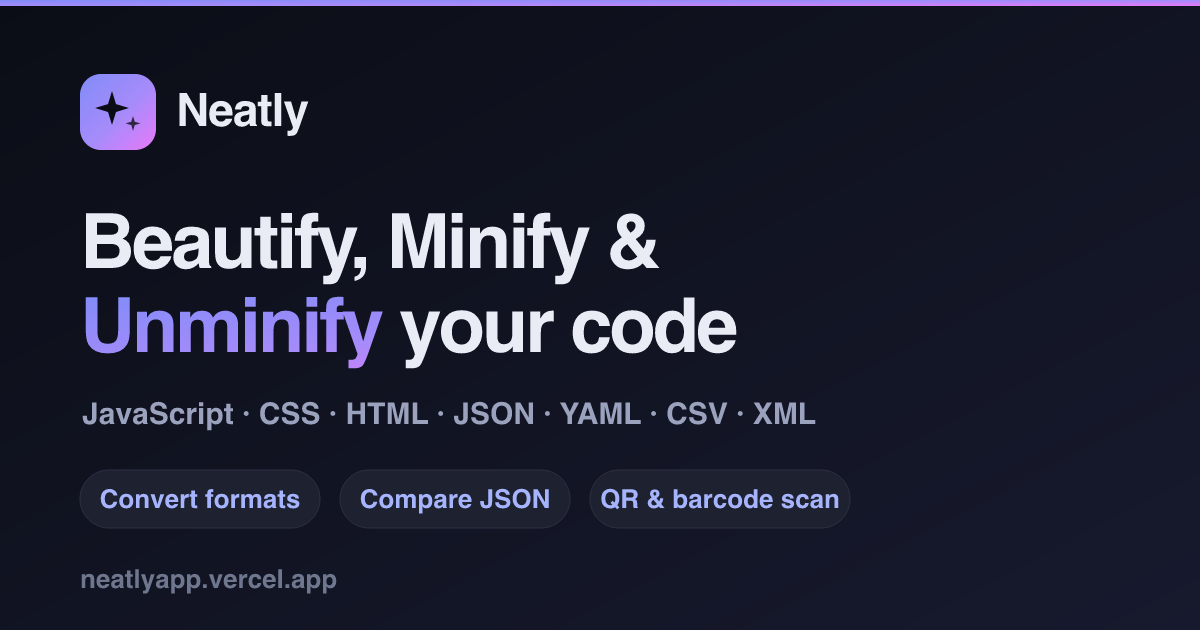
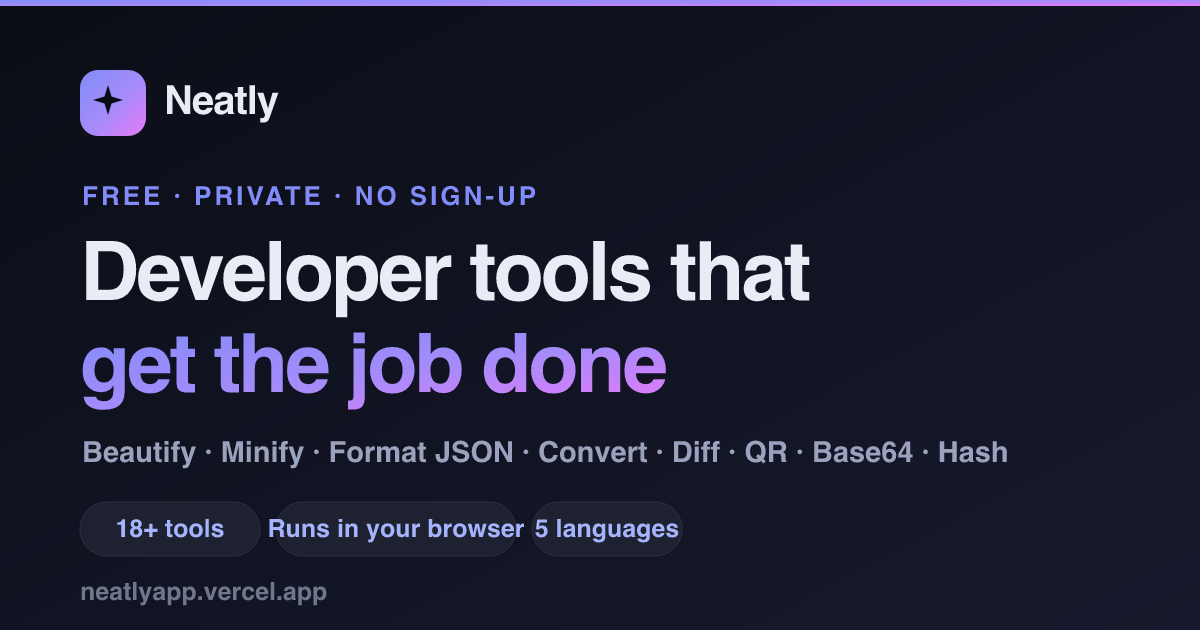
seo: reposition as a developer toolkit (OG image + meta)
Redesign the OG/social image around the full tool suite with a
problem-focused headline ("Developer tools that get the job done") and
category chips. Broaden the site + homepage title/description (all 5
locales) from beautify/minify-only to the whole toolkit, keeping key
search terms. Update OG/Twitter alt text.

Changed region(s): [[0.0617, 0.2714, 0.8325, 0.8746], [0.0617, 0.0905, 0.2775, 0.2413], [0.0617, 0.9048, 0.2775, 0.9651]]

diff --git a/app/pages/index.vue b/app/pages/index.vue
@@ -11,17 +11,15 @@ onMounted(async () => {
   if (shared) store.applyShareState(shared)
 })
 
-const pageTitle = 'Neatly — Beautify, Minify & Unminify JavaScript, CSS, HTML, JSON & XML'
-const pageDescription
-  = 'Free online code beautifier, minifier and unminifier. Instantly format, prettify or compress JavaScript, TypeScript, CSS, HTML, JSON, YAML and XML — paste, drop a file, done. Private, no sign-up.'
+const { t } = useI18n()
 
 useSeoMeta({
-  title: pageTitle,
-  description: pageDescription,
-  ogTitle: pageTitle,
-  ogDescription: pageDescription,
-  twitterTitle: pageTitle,
-  twitterDescription: pageDescription,
+  title: () => t('home.metaTitle'),
+  description: () => t('home.metaDesc'),
+  ogTitle: () => t('home.metaTitle'),
+  ogDescription: () => t('home.metaDesc'),
+  twitterTitle: () => t('home.metaTitle'),
+  twitterDescription: () => t('home.metaDesc'),
 })
 
 // Structured data for rich search results.

diff --git a/nuxt.config.ts b/nuxt.config.ts
@@ -9,9 +9,9 @@ const scssAbstracts = fileURLToPath(
 
 const siteUrl = 'https://neatlyapp.vercel.app'
 const siteName = 'Neatly'
-const siteTitle = 'Neatly — Beautify, Minify & Unminify JavaScript, CSS, HTML, JSON, XML'
+const siteTitle = 'Neatly — Free Online Developer Tools'
 const siteDescription
-  = 'Free online code beautifier, minifier & unminifier for JavaScript, CSS, HTML, JSON, YAML, CSV and XML. Convert formats, compare JSON, and scan QR codes & barcodes — fast and private.'
+  = 'A free developer toolkit to get your work done: beautify & minify code, format & validate JSON, convert JSON/YAML/CSV/XML, diff & compare, scan & generate QR codes, plus Base64, JWT, hash, UUID and password tools. Fast, private, no sign-up.'
 const ogImage = `${siteUrl}/og-image.png`
 
 // https://nuxt.com/docs/api/configuration/nuxt-config
@@ -109,14 +109,14 @@ export default defineNuxtConfig({
         { property: 'og:image:type', content: 'image/png' },
         { property: 'og:image:width', content: '1200' },
         { property: 'og:image:height', content: '630' },
-        { property: 'og:image:alt', content: 'Neatly — beautify, minify and unminify code' },
+        { property: 'og:image:alt', content: 'Neatly — free online developer tools' },
         { property: 'og:locale', content: 'en_US' },
         // Twitter
         { name: 'twitter:card', content: 'summary_large_image' },
         { name: 'twitter:title', content: siteTitle },
         { name: 'twitter:description', content: siteDescription },
         { name: 'twitter:image', content: ogImage },
-        { name: 'twitter:image:alt', content: 'Neatly — beautify, minify and unminify code' },
+        { name: 'twitter:image:alt', content: 'Neatly — free online developer tools' },
       ],
       link: [
         { rel: 'icon', type: 'image/svg+xml', href: '/favicon.svg' },